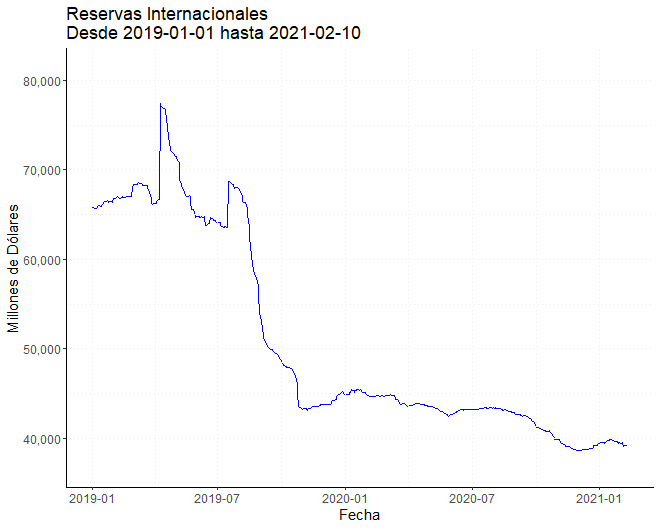
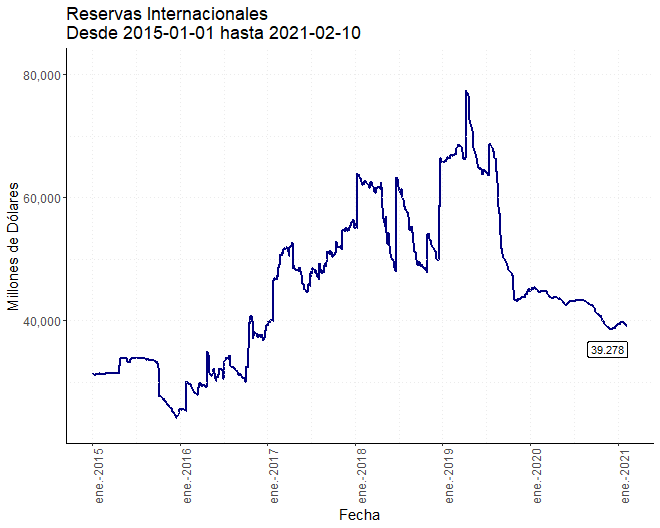
20210218 1515

diff --git a/index.html b/index.html
@@ -703,7 +703,9 @@ Préstamos
 <li>
 <a href="./Prestamos.html#pres_crec_hipot">Crecimiento Anual de los Préstamos Hipotecarios en Pesos al Sector Privado</a>
 </li>
-<u>En Pesos constantes y en términos del PIB</u> li&gt;<a href="./Prestamos.html#pres_real">A valor real</a>
+<u>En Pesos constantes y en términos del PIB</u>
+<li>
+<a href="./Prestamos.html#pres_real">A valor real</a>
 </li>
 <li>
 <a href="./Prestamos.html#pres_pib0">En % del PIB, a precios corrientes</a>
@@ -723,18 +725,49 @@ Préstamos
 <h3>
 Reservas
 </h3>
-<ol type="1">
+<ol type="1" start="113">
+<u>En Millones de Dólares</u>
 <li>
-<a href="./Reservas.html#res">Reservas Internacionales desde Enero de 2019</a>
+<a href="./Reservas.html#res">Desde Enero de 2015</a>
 </li>
 <li>
-<a href="./Reservas.html#res2">Reservas Internacionales desde Enero de 2020</a>
+<a href="./Reservas.html#res1">Desde Enero de 2019</a>
 </li>
 <li>
-<a href="./Reservas.html#res_int">Variación de Reservas y Compras Netas del BCRA desde el 12/10/2019</a>
+<a href="./Reservas.html#res2">Desde Enero de 2020</a>
 </li>
 <li>
-<a href="./Reservas.html#res_f5">Factores de Variación de las Reservas. Últimos 30 días hábiles.</a>
+<a href="./Reservas.html#res3">Desde Enero de 2021</a>
+</li>
+<u>En términos del PIB y de la Base Monetaria</u>
+<li>
+<a href="./Reservas.html#res_pib">En términos del PIB desde Enero de 2004</a>
+</li>
+<li>
+<a href="./Reservas.html#res_pib1">En términos del PIB desde Enero de 2020</a>
+</li>
+<li>
+<a href="./Reservas.html#res_bm">BM / PIB desde Enero de 2004</a>
+</li>
+<li>
+<a href="./Reservas.html#res_bm1">BM / PIB desde Enero de 2020</a>
+</li>
+<u>Factores de Variación de Reservas Internacionales</u>
+<li>
+<a href="./Reservas.html#res_f5">Desde Enero de 2020</a>
+</li>
+<li>
+<a href="./Reservas.html#res_f5">Desde Enero de 2021</a>
+</li>
+<li>
+<a href="./Reservas.html#res_f5">Últimos 30 días hábiles.</a>
+</li>
+<u>Compra de Reservas al Sector Privado</u>
+<li>
+<a href="./Reservas.html#res_f5">Desde Enero de 2004</a>
+</li>
+<li>
+<a href="./Reservas.html#res_f5">Desde Enero de 2020</a>
 </li>
 </ol>
 <p><br></p>

diff --git a/Reservas.html b/Reservas.html
@@ -325,18 +325,39 @@ $(document).ready(function () {
 
 <p><br><br></p>
 <p><br><br></p>
+<div id="en-millones-de-dólares" class="section level2">
+<h2>En Millones de Dólares</h2>
 <p><a id="res"></a></p>
 <p><br><br><br><br></p>
-<p><img src="Graficos/res.png" /></p>
+<div id="section" class="section level3">
+<h3>113</h3>
+<p><img src="Graficos/res.png" /> <a href="https://github.com/esterodr/Monitor_v2/blob/main/CSV/Grafico113.csv" target="_blank">Descargar Datos</a></p>
+<p><a id="res1"></a></p>
+<p><br><br><br><br></p>
+</div>
+<div id="section-1" class="section level3">
+<h3>114</h3>
+<p><img src="Graficos/res1.png" /> <a href="https://github.com/esterodr/Monitor_v2/blob/main/CSV/Grafico114.csv" target="_blank">Descargar Datos</a></p>
 <p><a id="res2"></a></p>
 <p><br><br><br><br></p>
-<p><img src="Graficos/res2.png" /></p>
+</div>
+<div id="section-2" class="section level3">
+<h3>115</h3>
+<p><img src="Graficos/res2.png" /> <a href="https://github.com/esterodr/Monitor_v2/blob/main/CSV/Grafico115.csv" target="_blank">Descargar Datos</a></p>
+<p><a id="res3"></a></p>
+<p><br><br><br><br></p>
+</div>
+<div id="section-3" class="section level3">
+<h3>116</h3>
+<p><img src="Graficos/res3.png" /> <a href="https://github.com/esterodr/Monitor_v2/blob/main/CSV/Grafico116.csv" target="_blank">Descargar Datos</a></p>
 <p><a id="res_int"></a></p>
 <p><br><br><br><br></p>
 <p><img src="Graficos/res_int.png" /></p>
 <p><a id="res_f5"></a></p>
 <p><br><br><br><br></p>
 <p><img src="Graficos/res_f5.png" /></p>
+</div>
+</div>
 
 
 
